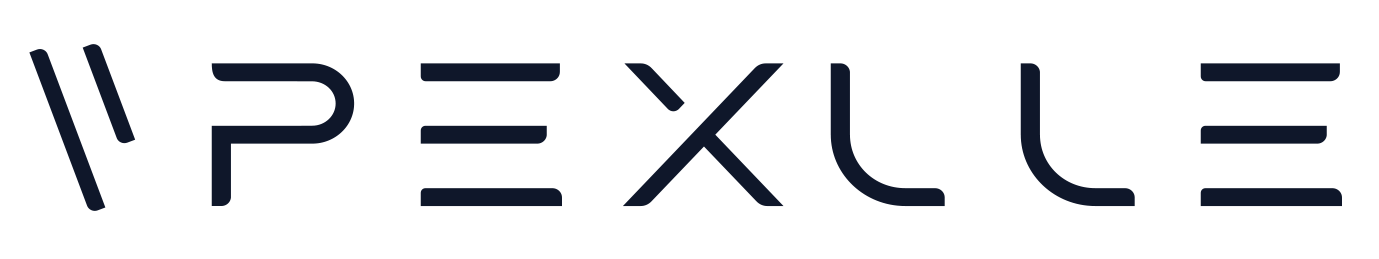
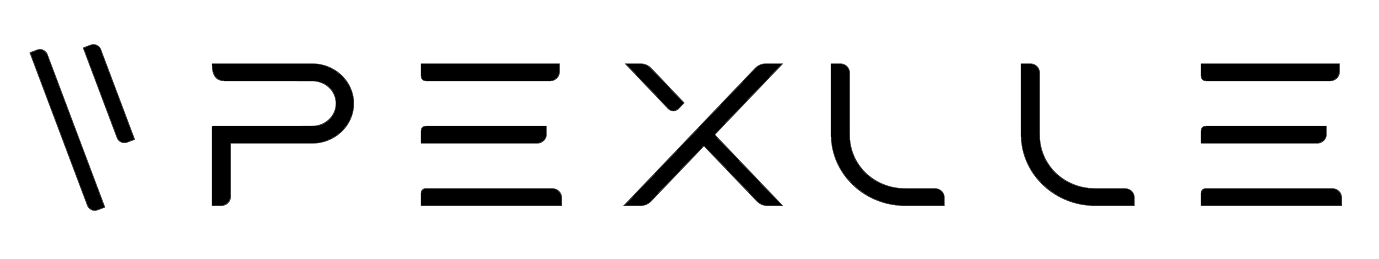
updates

diff --git a/components/layout/sidebar.tsx b/components/layout/sidebar.tsx
@@ -80,7 +80,7 @@ const FooterSection = ({
   isCollapsed: boolean;
   toggleCollapse: Function;
 }) => (
-  <footer className="absolute bottom-0 px-7 py-6">
+  <footer className="absolute bottom-0 pl-[1.85rem] pr-[1.75rem] py-6">
     <TooltipProvider delayDuration={100}>
       <Tooltip>
         <TooltipTrigger asChild>
@@ -91,12 +91,12 @@ const FooterSection = ({
             onClick={() => setTheme(theme === "light" ? "dark" : "light")}
           >
             <Moon
-              className=" h-[1.2rem] w-[1.2rem] rotate-0 scale-100 transition-all dark:-rotate-90 dark:scale-0"
-              strokeWidth={1}
+              className="text-muted-foreground h-[1.2rem] w-[1.2rem] rotate-0 scale-100 transition-all dark:-rotate-90 dark:scale-0"
+              strokeWidth={1.3}
             />
             <Sun
-              className="absolute h-[1.2rem] w-[1.2rem] rotate-90 scale-0 transition-all dark:rotate-0 dark:scale-100"
-              strokeWidth={1}
+              className="text-muted-foreground absolute h-[1.2rem] w-[1.2rem] rotate-90 scale-0 transition-all dark:rotate-0 dark:scale-100"
+              strokeWidth={1.3}
             />
           </Button>
         </TooltipTrigger>
@@ -114,13 +114,13 @@ const FooterSection = ({
           >
             {isCollapsed ? (
               <PanelLeftOpen
-                className="h-[1.2rem] w-[1.2rem]"
-                strokeWidth={1}
+                className="text-muted-foreground h-[1.2rem] w-[1.2rem]"
+                strokeWidth={1.3}
               />
             ) : (
               <PanelLeftClose
-                className="h-[1.2rem] w-[1.2rem]"
-                strokeWidth={1}
+                className="text-muted-foreground h-[1.2rem] w-[1.2rem]"
+                strokeWidth={1.3}
               />
             )}
           </Button>
@@ -133,7 +133,7 @@ const FooterSection = ({
 
 export default function Sidebar({ className }: SidebarProps) {
   const { theme = "light", setTheme } = useTheme(); // Default to 'light' if theme is undefined
-  const [logo, setLogo] = useState("/pexlleh.svg");
+  const [logo, setLogo] = useState("/pexlleh.png");
   const [isCollapsed, setIsCollapsed] = useState(false);
 
   useEffect(() => {
@@ -151,7 +151,7 @@ export default function Sidebar({ className }: SidebarProps) {
 
   useEffect(() => {
     const effectiveTheme = theme === "system" ? "light" : theme;
-    setLogo(effectiveTheme === "light" ? "/pexlleh.svg" : "/pexllelight.png");
+    setLogo(effectiveTheme === "light" ? "/pexlleh.png" : "/pexllelight.png");
   }, [theme]);
 
   return (
@@ -160,7 +160,7 @@ export default function Sidebar({ className }: SidebarProps) {
         isCollapsed ? "collapsed" : ""
       }`}
     >
-      <div className="flex h-full rounded-3xl bg-muted border flex-col flex-grow overflow-auto">
+      <div className="flex h-full rounded-3xl bg-muted flex-col flex-grow overflow-auto">
         <LogoSection logo={logo} />
         <UserInfoSection isCollapsed={isCollapsed} />
         <NavigationSection isCollapsed={isCollapsed} />

diff --git a/components/dashboard-nav.tsx b/components/dashboard-nav.tsx
@@ -46,7 +46,7 @@ export function DashboardNav({
                 className={cn(
                   "text-muted-foreground group flex items-center rounded-md px-3 py-2 text-sm font-medium hover:bg-primary/10",
                   isHome || isActive
-                    ? "text-primary bg-primary/10 font-black hover:bg-primary/10 rounded-md justify-start"
+                    ? "text-secondary bg-primary hover:bg-primary rounded-md justify-start"
                     : "transparent",
                   item.disabled && "cursor-not-allowed opacity-80"
                 )}
